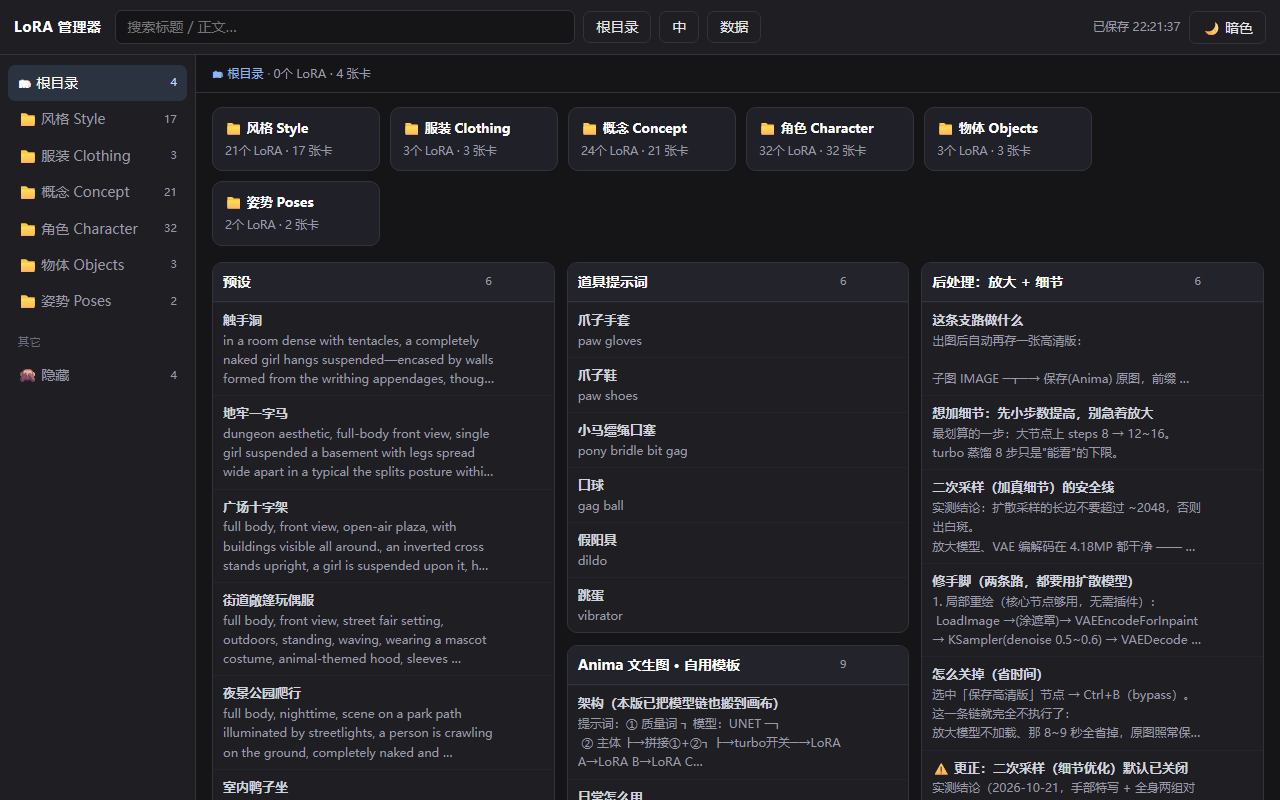
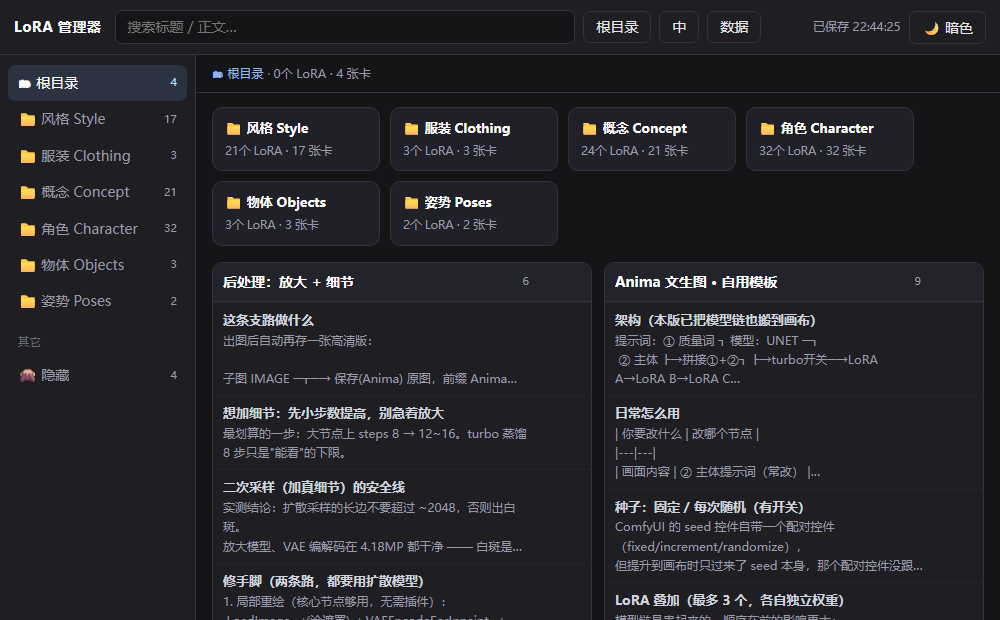
截图换成不含私人提示词的取景，补 markdown 预览图

diff --git a/README.md b/README.md
@@ -8,6 +8,10 @@ A **LoRA file manager + prompt notebook** for ComfyUI: browse your real folder t
 
 ![English UI](docs/shot-en.png)
 
+双击卡片按 markdown 预览 / Double-click a card for a rendered preview:
+
+![markdown 预览](docs/shot-preview.png)
+
 ---
 
 ## 它解决的问题 / Why
